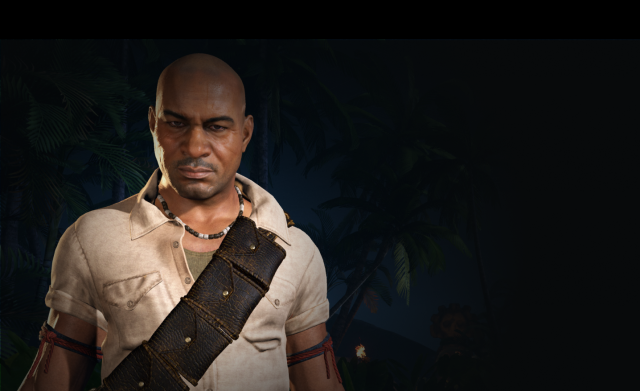
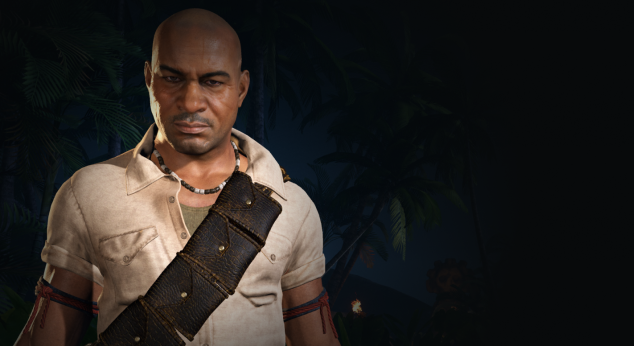
Added a media query to the features section for desktop

diff --git a/webroot/css/index.css b/webroot/css/index.css
@@ -288,6 +288,22 @@ h4 {
   padding-block-end: 72px;
   margin-block-end: 0; }
 
+@media (min-width: 768px) {
+  .features {
+    background-image: url("../img/second-background-copy.png");
+    background-position: center center; }
+  .features > * {
+    max-width: 1197px;
+    margin-inline-start: auto;
+    margin-inline-end: auto;
+    padding-inline-start: 797px; }
+  .features__category {
+    padding-block-start: 259px; }
+  .features__lists--last {
+    padding-block-end: 259px; }
+  .features__lists--description {
+    margin-inline-end: 370px; } }
+
 .system {
   background-image: url("../img/bg image 4.png");
   background-repeat: no-repeat;

diff --git a/scss/_features.scss b/scss/_features.scss
@@ -40,4 +40,30 @@
     margin-block-end: 0;
 }
 
+@media (min-width: 768px) {
+    .features {
+        background-image: url('../img/second-background-copy.png');
+        background-position: center center;
+    }
+    
+    .features > * {
+        max-width: 1197px;
+        margin-inline-start: auto;
+        margin-inline-end: auto;
+        padding-inline-start: 797px;
+    }
+
+    .features__category {
+        padding-block-start: 259px;
+    }
+
+    .features__lists--last {
+        padding-block-end: 259px;
+    }
+
+    .features__lists--description {
+        margin-inline-end: 370px;
+    }
+}
+
 
